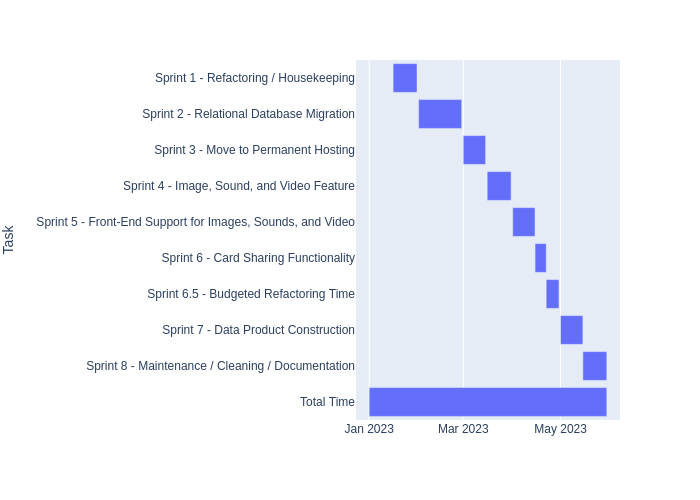
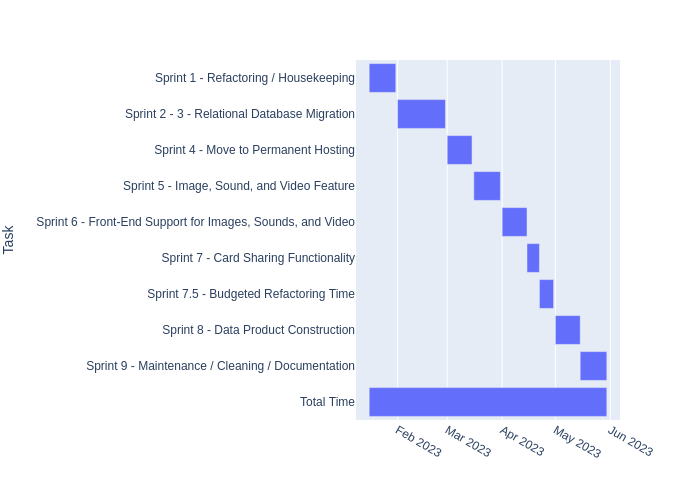
refactored gant chart

diff --git a/documentation/turn_in_work/gant_chart.py b/documentation/turn_in_work/gant_chart.py
@@ -4,15 +4,15 @@ import plotly.io as pio
 
 df = pd.DataFrame([
     dict(Task="Sprint 1 - Refactoring / Housekeeping", Start='2023-01-16', Finish='2023-01-31'),
-    dict(Task="Sprint 2 - Relational Database Migration", Start='2023-02-01', Finish='2023-02-28'),
-    dict(Task="Sprint 3 - Move to Permanent Hosting", Start='2023-03-01', Finish='2023-03-15'),
-    dict(Task="Sprint 4 - Image, Sound, and Video Feature", Start='2023-03-16', Finish='2023-03-31'),
-    dict(Task="Sprint 5 - Front-End Support for Images, Sounds, and Video", Start='2023-04-01', Finish='2023-04-15'),
-    dict(Task="Sprint 6 - Card Sharing Functionality", Start='2023-04-15', Finish='2023-04-22'),
-    dict(Task="Sprint 6.5 - Budgeted Refactoring Time", Start='2023-04-22', Finish='2023-04-30'),
-    dict(Task="Sprint 7 - Data Product Construction", Start='2023-05-01', Finish='2023-05-15'),
-    dict(Task="Sprint 8 - Maintenance / Cleaning / Documentation", Start='2023-05-15', Finish='2023-05-30'),
-    dict(Task="Total Time", Start='2023-01-01', Finish='2023-05-30'),
+    dict(Task="Sprint 2 - 3 - Relational Database Migration", Start='2023-02-01', Finish='2023-02-28'),
+    dict(Task="Sprint 4 - Move to Permanent Hosting", Start='2023-03-01', Finish='2023-03-15'),
+    dict(Task="Sprint 5 - Image, Sound, and Video Feature", Start='2023-03-16', Finish='2023-03-31'),
+    dict(Task="Sprint 6 - Front-End Support for Images, Sounds, and Video", Start='2023-04-01', Finish='2023-04-15'),
+    dict(Task="Sprint 7 - Card Sharing Functionality", Start='2023-04-15', Finish='2023-04-22'),
+    dict(Task="Sprint 7.5 - Budgeted Refactoring Time", Start='2023-04-22', Finish='2023-04-30'),
+    dict(Task="Sprint 8 - Data Product Construction", Start='2023-05-01', Finish='2023-05-15'),
+    dict(Task="Sprint 9 - Maintenance / Cleaning / Documentation", Start='2023-05-15', Finish='2023-05-30'),
+    dict(Task="Total Time", Start='2023-01-16', Finish='2023-05-30'),
 ])
 
 
